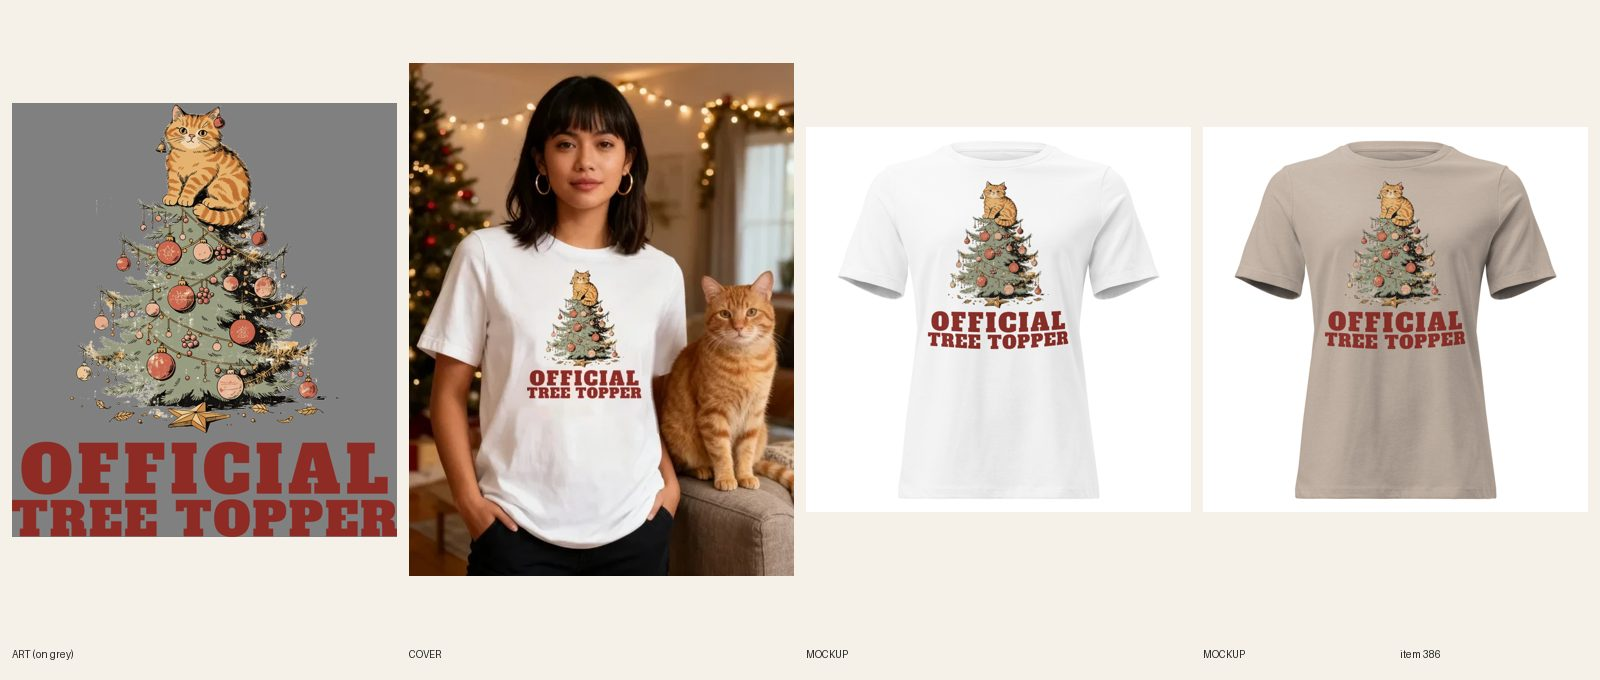
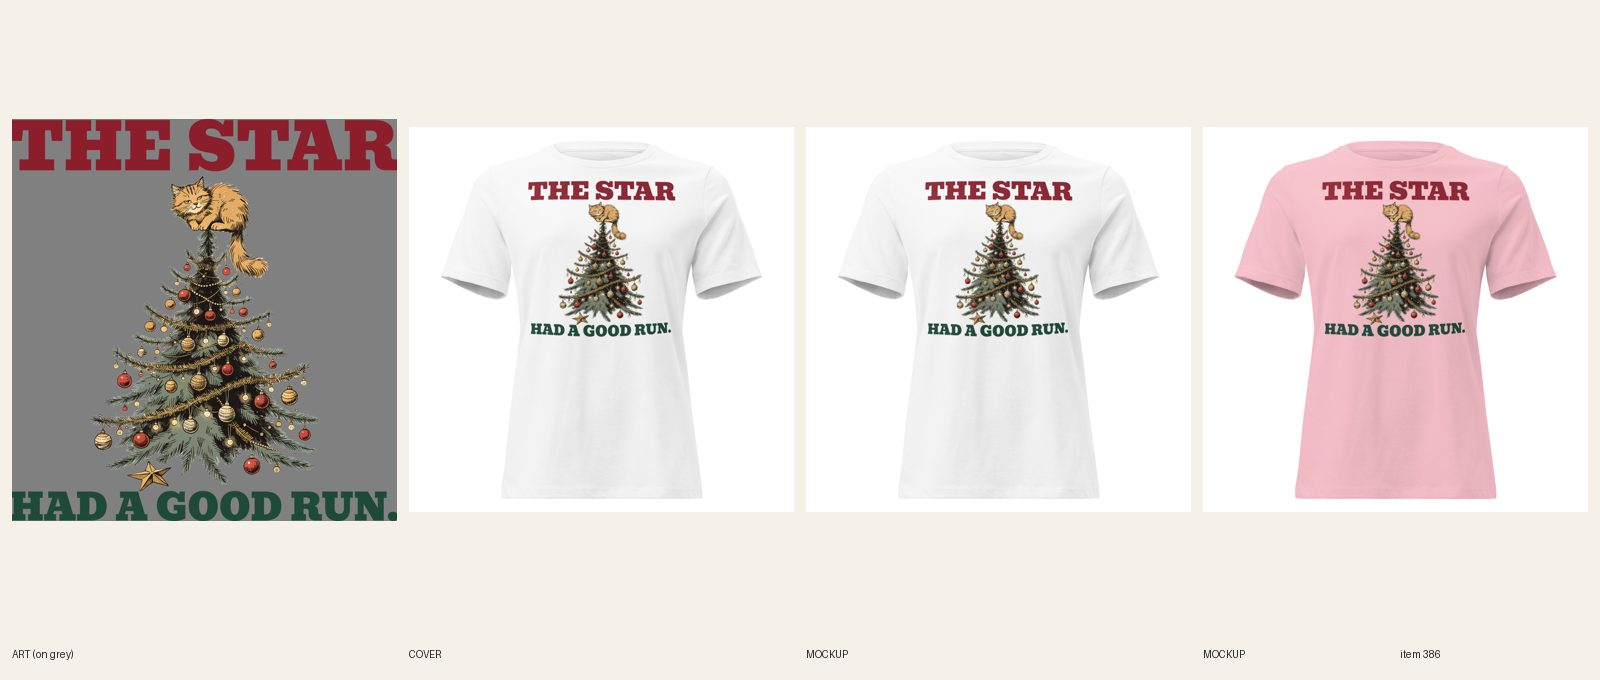
[E] review 386 The Star Had a Good Run Christmas tee (line + type redo)

diff --git a/scripts/e-redo.py b/scripts/e-redo.py
@@ -3,7 +3,7 @@
 Lane E redo helper: hosts each print on fal, uploads to Printful, starts the paced setfile per color in the background
 (logs <dir>/sync_<Color>.log, ids <dir>/id_<Color>), and makes one front mockup per color (<dir>/mk_<Color>.json).
 Reads PRINTFUL_TOKEN / FAL_KEY from the environment; prints no secrets."""
-import os, sys, json, subprocess, time, urllib.request
+import os, sys, json, subprocess, time, shlex, urllib.request
 d, pid, cat, fw, top = sys.argv[1:6]; pairs = [a.split('=', 1) for a in sys.argv[6:]]
 H = {'Authorization': 'Bearer ' + os.environ['PRINTFUL_TOKEN'], 'User-Agent': 'gtc'}
 def get(p): return json.load(urllib.request.urlopen(urllib.request.Request('https://api.printful.com' + p, headers=H), timeout=60))['result']
@@ -18,7 +18,7 @@ for color, png in pairs:
         time.sleep(4)
     out[color + '_wh'] = (f['width'], f['height'], f['url'])
     print(color, fid, f['width'], f['height'], flush=True)
-cmds = ' ; '.join(f"ONLY='/ {c} /' {sys.executable} scripts/pf-sync.py setfile {pid} {out[c]} > {d}/sync_{c}.log 2>&1" for c, _ in pairs)
+cmds = ' ; '.join(f"ONLY={shlex.quote(f'/ {c} /')} {sys.executable} scripts/pf-sync.py setfile {pid} {out[c]} > {shlex.quote(d + '/sync_' + c.replace(' ', '_') + '.log')} 2>&1" for c, _ in pairs)
 subprocess.Popen(['bash', '-c', cmds], env=env, start_new_session=True, stdout=subprocess.DEVNULL, stderr=subprocess.DEVNULL)
 for c, _ in pairs:
     v = next(v for v in vs if f' / {c} / M' in v['name'] or f' / {c} / L' in v['name'])

diff --git a/docs/pipeline/386-christmas-tee-official-tree-topper.md b/docs/pipeline/386-christmas-tee-official-tree-topper.md
@@ -1,4 +1,4 @@
-status: REDO
+status: REVIEW
 lane: E
 type: new
 id: 386
@@ -32,3 +32,4 @@ kd: 64
 - 2026-10-18 05:35 UTC builder [E]: re-sync 30/30 confirmed on file 1088708607. REVIEW.
 - 2026-10-18 06:14 UTC director: LIVE. Sheet reviewed (R3/R4/R5/R6/R8/R13.3 pass), ACTIVE + published to Online Store, My Store Headless, Google & YouTube; cohesion-audit --handle PASS 0 warn.
 - 2026-10-18 17:22 UTC director: QUALITY RESET grade C (new line + type), REDO. The product stays ACTIVE (same handle, URL, title keyword). 1. Line (R3.12, quality-reset 'Lines'): "OFFICIAL / TREE TOPPER": Only describes the picture (cat on tree); type strong. Write 5 candidates, keep the one a stranger laughs at in 3 seconds without backstory; kill lines that only describe the picture; if none of the 5 is funny, PARK it. 2. Quality reset type bar (docs/backlog/quality-reset.md, 'The new bar'): headline at least 90% of the art width, heavy, colors pulled from the art; second line at least 45% of the headline's height, never a thin script on a dark or mid garment; use the lettering as a shape (arch, stacked lockup, words breaking into the art), not a plain bar above and a script line below; no font used on more than 1 in 6 of the last 30 designs. 3. Keep the art if it carries the new line, else one new illustration (R4/R5). New print means a new cover per R6.10, copy line one rewritten for the new joke (R8.3), and a fresh review sheet (R7.7). While quality-reset.md says PAUSED, only lane A builds, and only the samples step 2 names.
+- 2026-10-20 04:55 UTC builder [E]: REDO 386 (C grade, line + type) done on the existing product (stays ACTIVE, handle unchanged). 5 candidates: "THE STAR HAD A GOOD RUN."; "Tree Topper: Hired"; "Official Tree Topper" (old); "Gravity Is Just A Suggestion"; "The Tree Is Mine Now". Kept THE STAR / HAD A GOOD RUN. (star on the floor, cat on top, deadpan, 3 seconds). One new Recraft call ($0.04): smug tabby on a decorated tree, star at the base, no words. Bevan at full print width in solid dark ink: THE STAR burgundy, HAD A GOOD RUN. pine green (every offered color is light: one dark-ink file 1090134039/105/347 for White, Natural, Pink and the same print on Heather Stone and Athletic Heather; light file logged, headline fill dark on all five). FW 1500 TOP 75 (1565 px tall, bottom at 1640 of 1800), 30/30 synced on the new file, back logo kept. 5 fronts replaced in place, alts updated, title/SEO/copy/FAQs rewritten. Cover: handle added to retired-covers.json (plain product shot). Phone-size read OK on all five colors. audit --handle PASS 0 warn; astro build OK. fal $0.04. Sheet docs/review/386.jpg.

diff --git a/docs/intake-log.md b/docs/intake-log.md
@@ -2,6 +2,8 @@ RUNNING lane B since 2026-10-20 03:28 UTC
 RUNNING lane C since 2026-10-20 03:23 UTC
 2026-10-20 03:52 UTC — [C] Builder run: redid #635 Women's Fishing Out-Fished Him. Again. zip hoodie (type only: AGAIN. in Bowlby One heavy, navy on Ash / cream+red keyline on Navy, same art, back files 1090135325 / 1090135337, 12/12 relinked, 2 back mockups replaced in place, copy updated, plain product shot). REVIEW. fal $0.
 2026-10-20 03:20 UTC — [D] Director run: 6 LIVE (#548 #578 #618 #336 #414 #474, audit PASS each), 7 new redos approved and held (#205 #217 #219 #326 #356 #358 #650), 2 REDO (#216 line + shape, #507 R4.1 panel edges), lane E refilled to 12 READY with briefs #704–#710 (crop top hoodie, knitting sweatshirt, knitting shirt, mtb shirt, bouldering shirt, skiing shirt, climbing shirt). Inbox: nothing new. No digest (not due). Lock released.
+RUNNING director since 2026-10-20 03:12 UTC
+2026-10-20 04:56 UTC — [E] Builder run: redid #386 Women's Christmas tee (line + type: THE STAR HAD A GOOD RUN., new cat-on-tree art, one dark-ink file on 5 light colors, 30/30 synced, copy updated, plain product shot). REVIEW. fal $0.04.
 2026-10-20 04:16 UTC — [E] Builder run: redid #366 Women's Beach oversized hoodie (line + type: SHELLFISH ON PURPOSE., new crab art, Navy + Dust files, 12/12 synced, copy updated, plain product shot). REVIEW. fal $0.04.
 RUNNING director since 2026-10-20 03:12 UTC
 2026-10-20 03:28 UTC — [A] Builder run: redid #237 Women's Christmas Candy Cane Club crewneck (type+line: SUCKER FOR / CHRISTMAS., same candy cane art, Bevan full width, FW 1650 TOP 75, file 1090132546, 24/24 relinked on sync 482321113, 4 fronts replaced in place, copy updated, plain product shot). REVIEW. fal $0.
